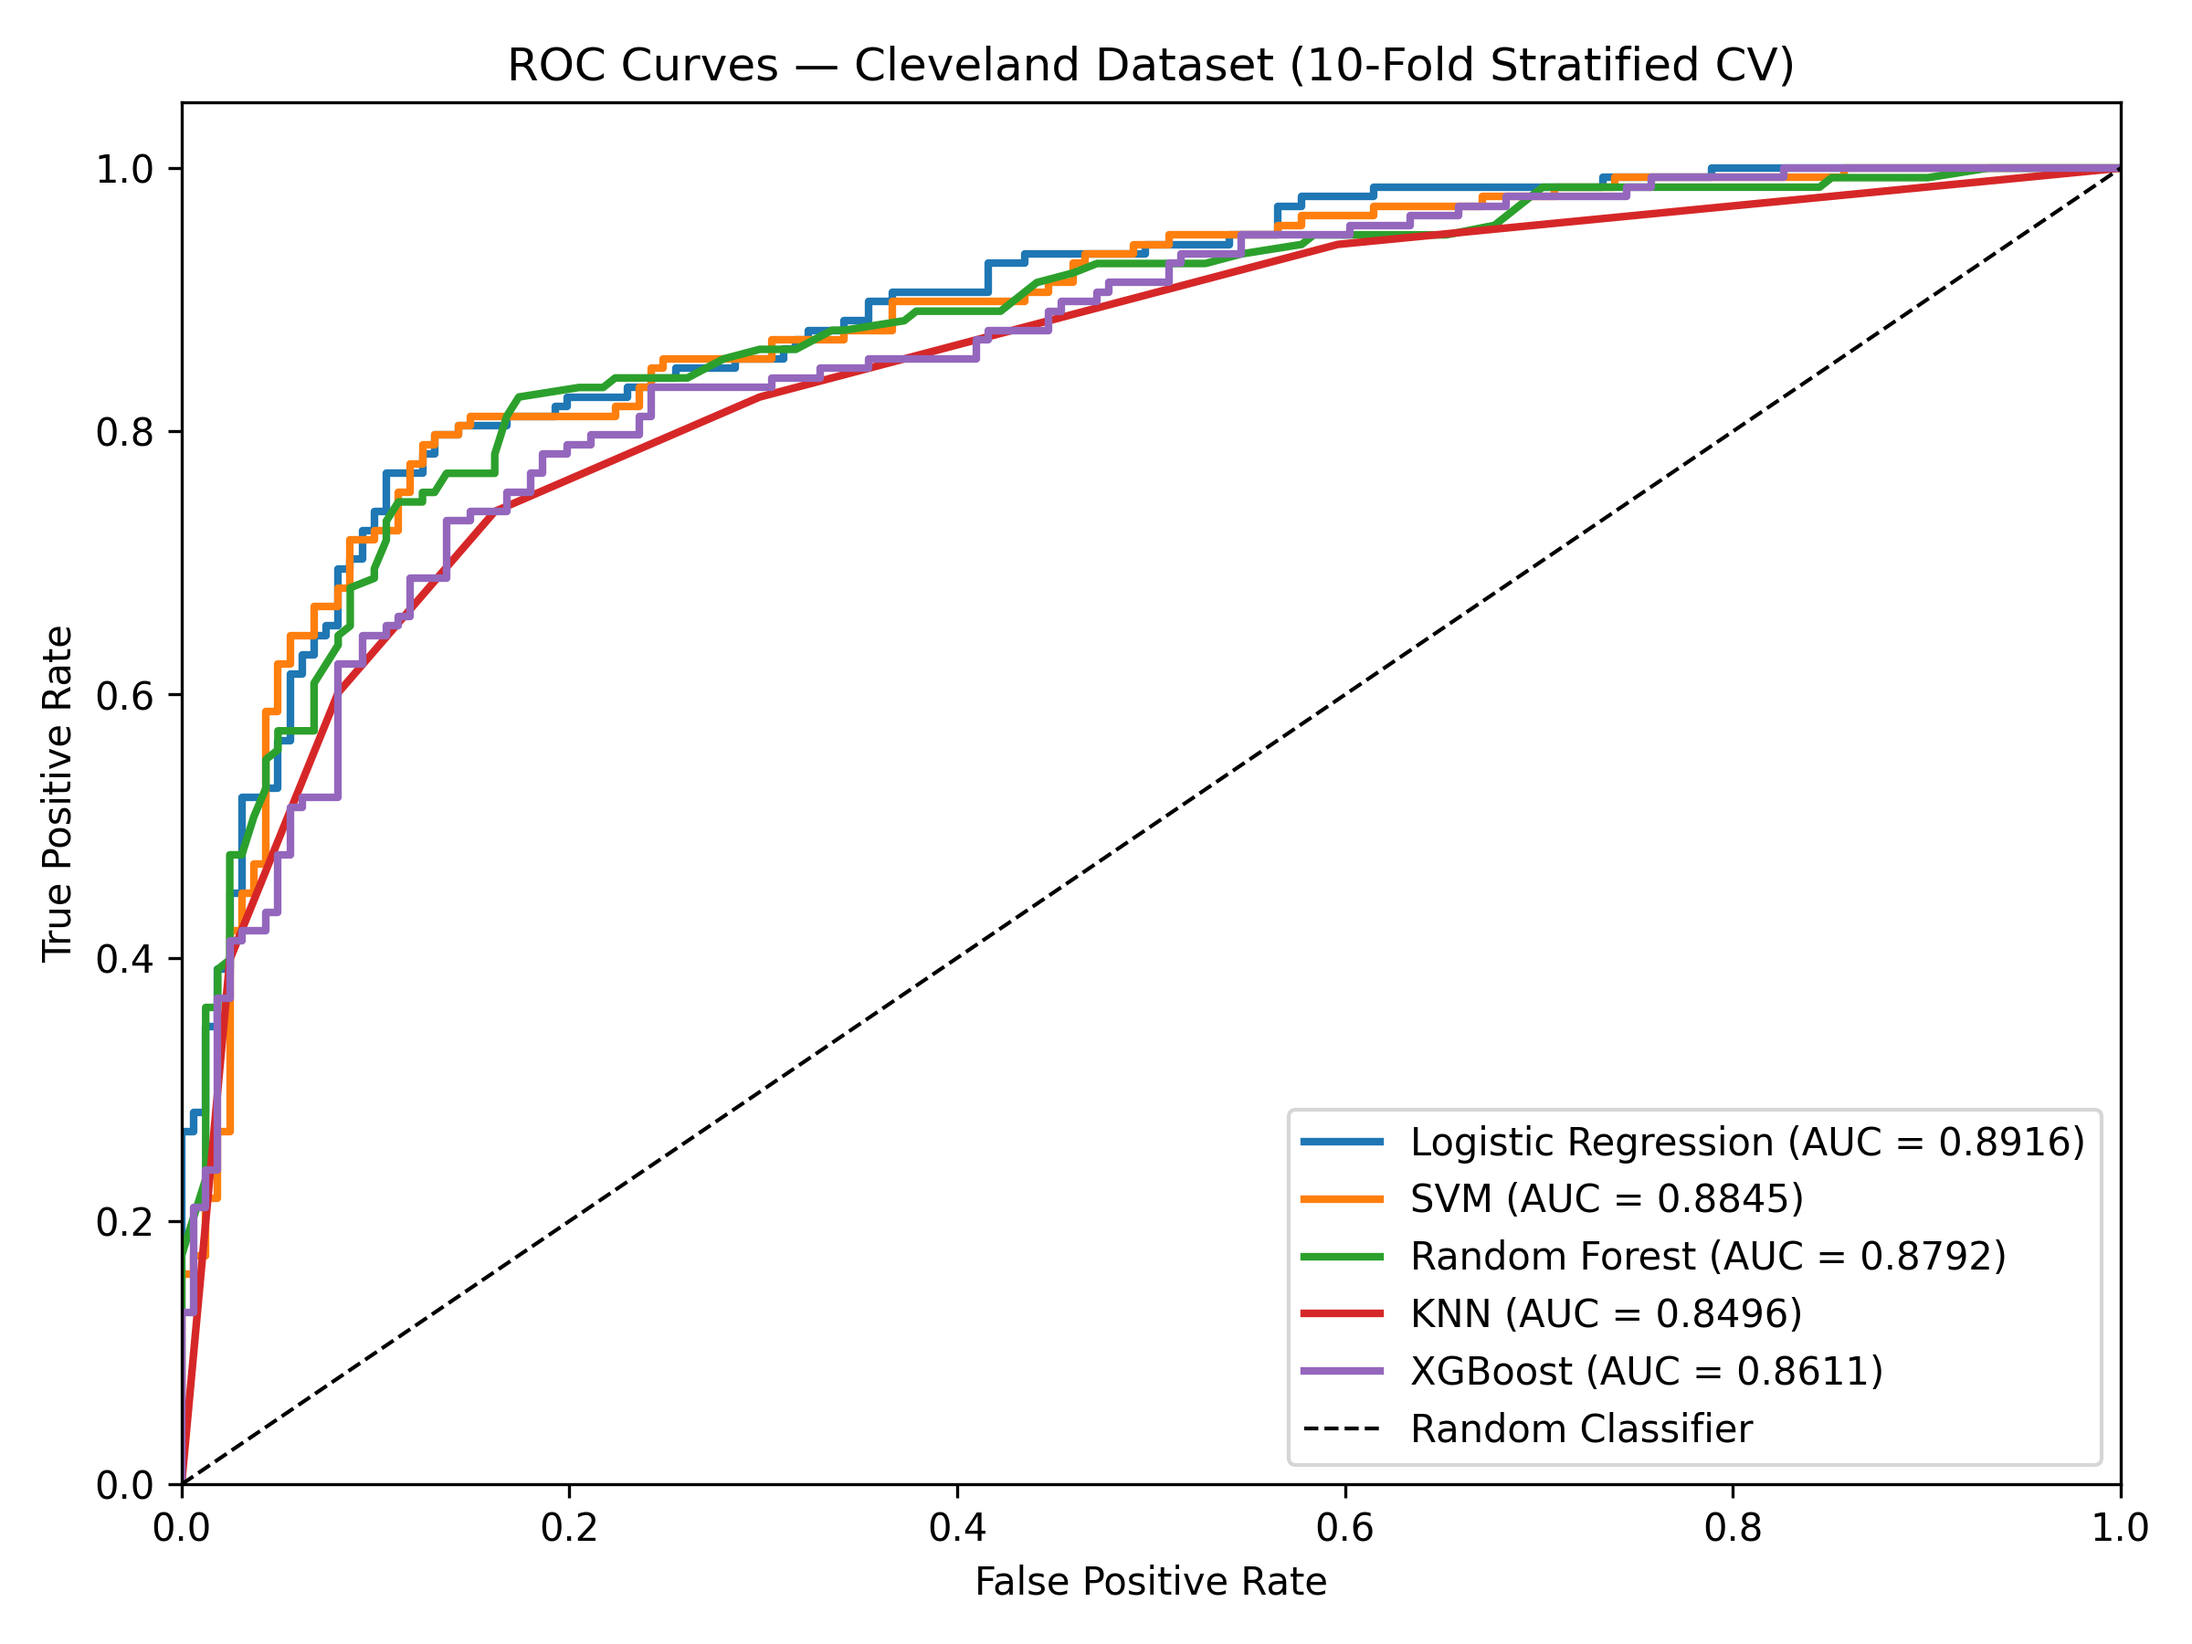
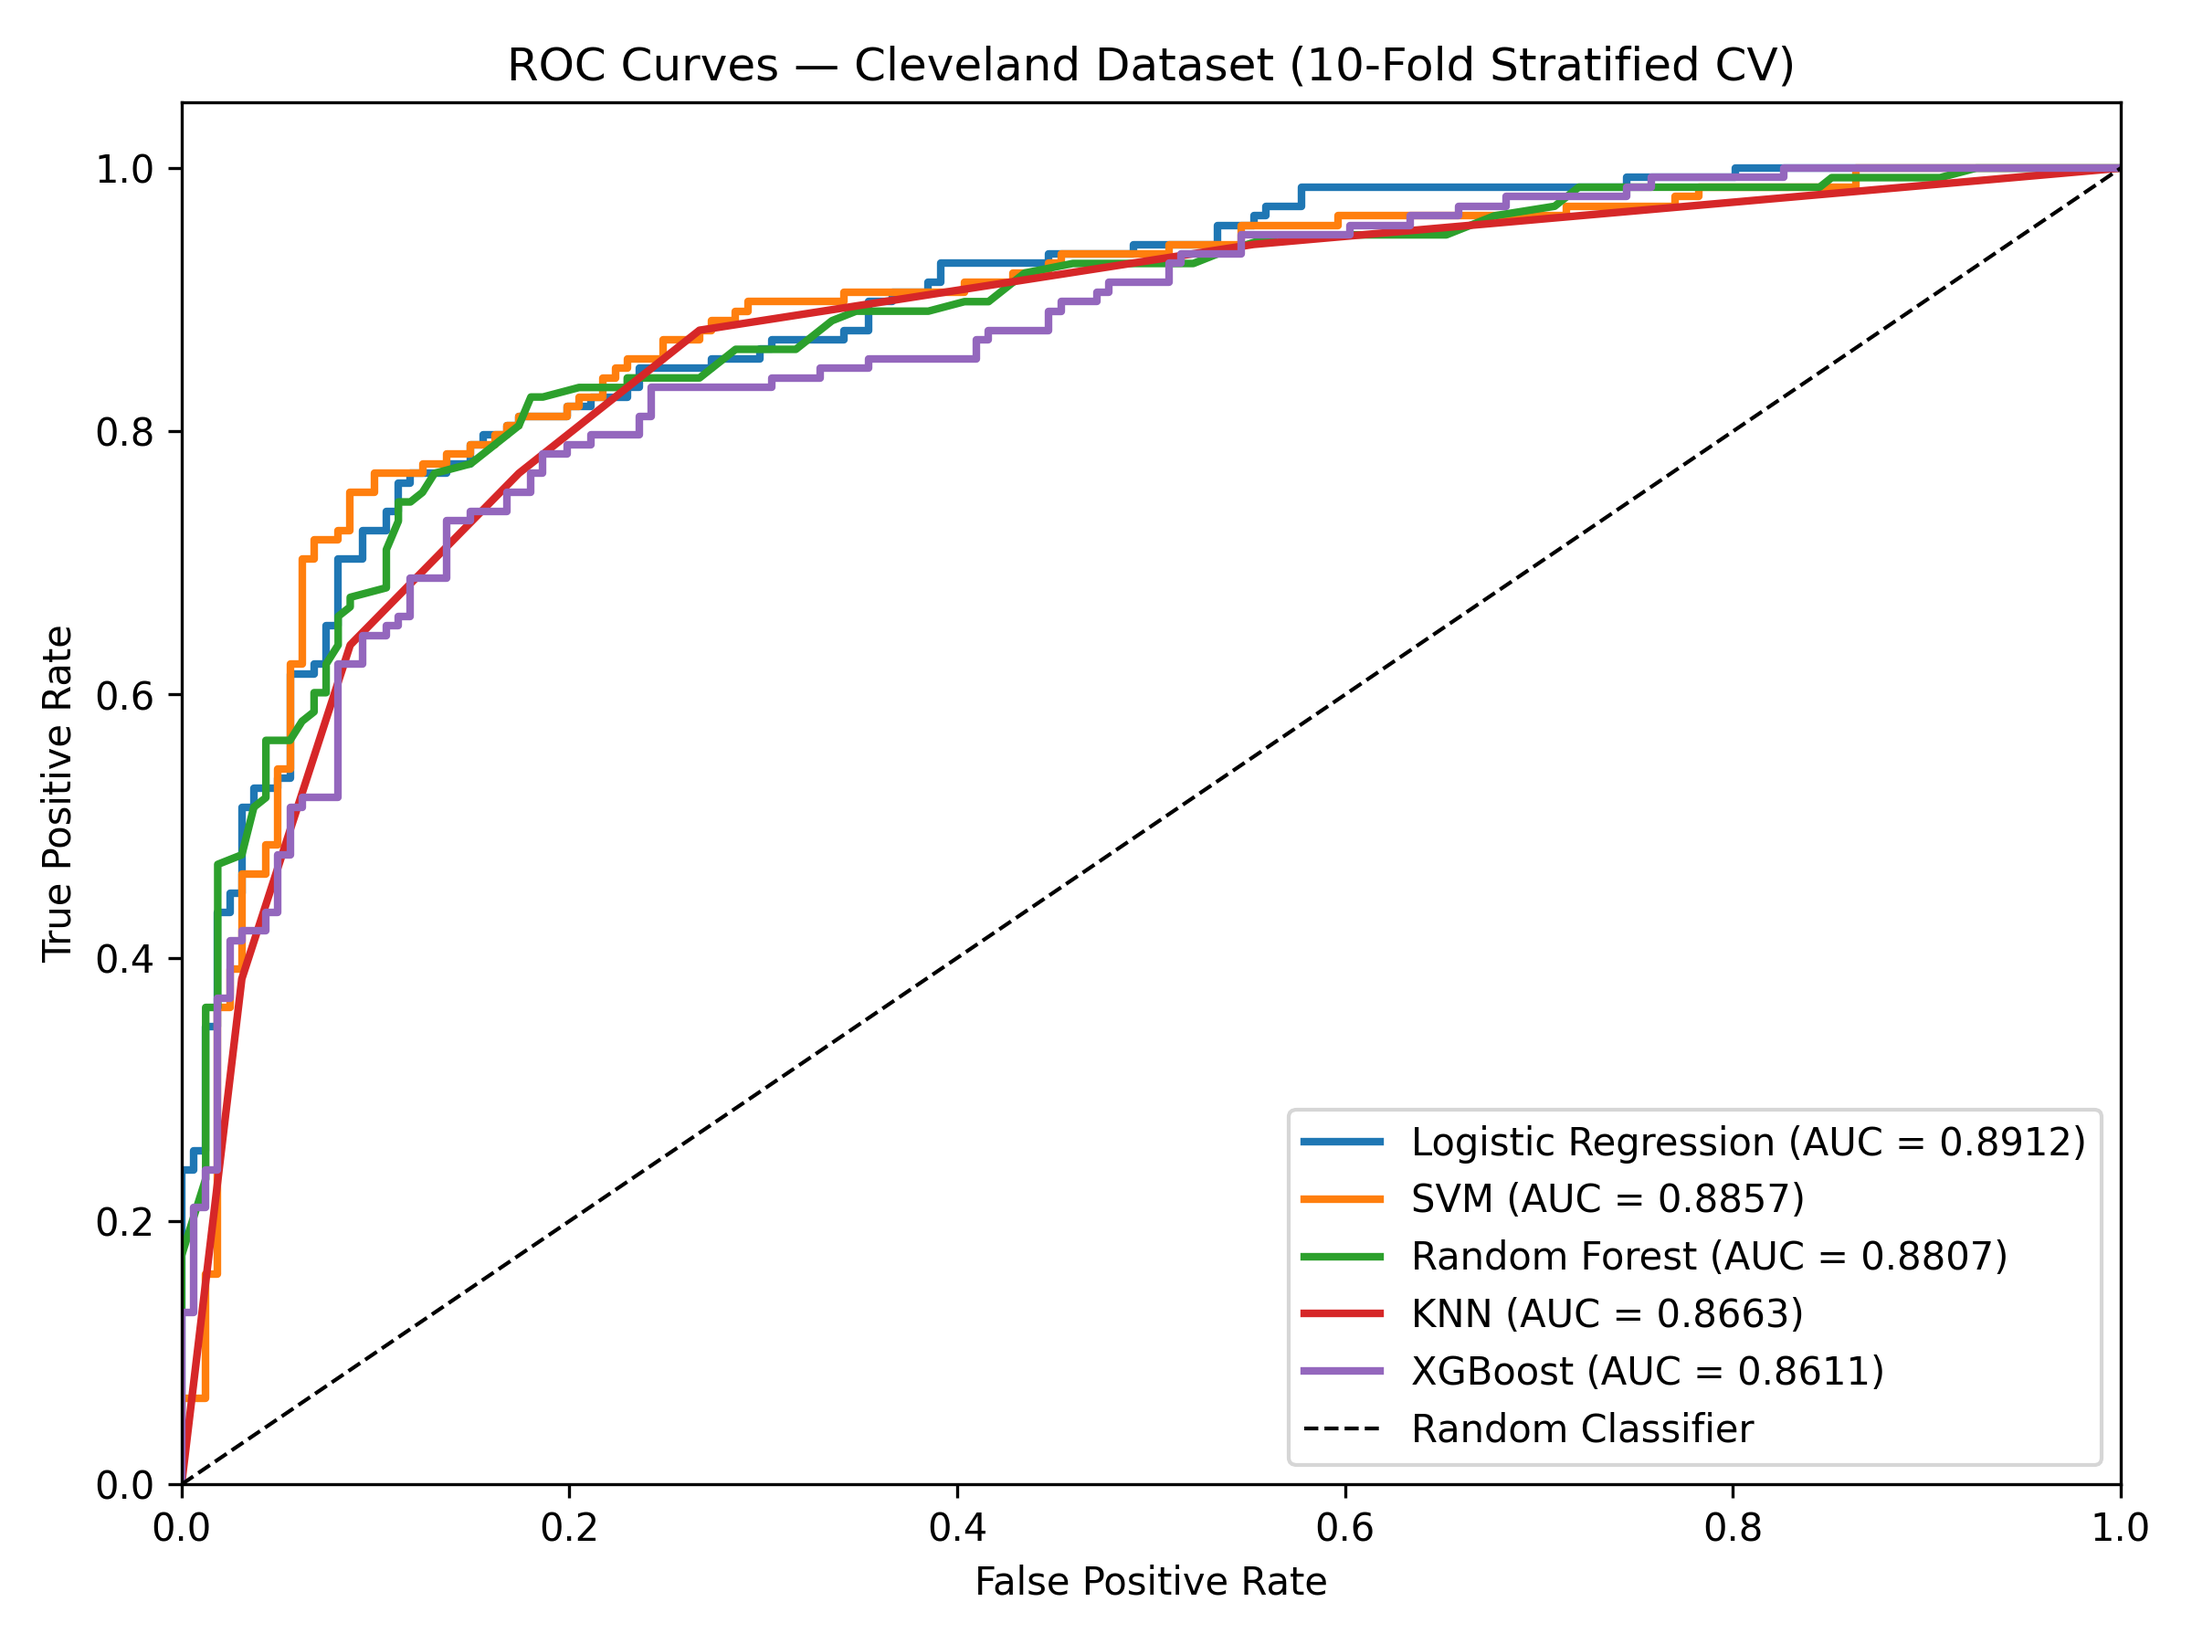
updated scaling of data for training

diff --git a/scripts/model_training.py b/scripts/model_training.py
@@ -5,6 +5,8 @@ import seaborn as sns
 import os
 
 from sklearn.model_selection import StratifiedKFold, cross_val_predict
+from sklearn.pipeline import Pipeline
+from sklearn.preprocessing import StandardScaler
 from sklearn.metrics import (
     accuracy_score, precision_score, recall_score,
     f1_score, roc_auc_score, roc_curve, confusion_matrix, ConfusionMatrixDisplay
@@ -18,7 +20,7 @@ from xgboost import XGBClassifier
 
 
 def load_and_prepare_data():
-    cleveland = pd.read_csv("../processed-data/cleveland_normalised.csv")
+    cleveland = pd.read_csv("../processed-data/cleveland_processed.csv")
     X = cleveland.drop("target", axis=1)
     y = cleveland["target"]
     return X, y
@@ -26,15 +28,30 @@ def load_and_prepare_data():
 
 def get_models():
     return {
-        "Logistic Regression": LogisticRegression(max_iter=1000, random_state=42),
-        "SVM":                 SVC(kernel="rbf", probability=True, random_state=42),
-        "Random Forest":       RandomForestClassifier(n_estimators=100, random_state=42),
-        "KNN":                 KNeighborsClassifier(n_neighbors=5),
-        "XGBoost":             XGBClassifier(
-                                   n_estimators=100,
-                                   eval_metric="logloss",
-                                   random_state=42,
-                               ),
+        "Logistic Regression": Pipeline([
+            ("scaler", StandardScaler()),
+            ("clf", LogisticRegression(max_iter=1000, random_state=42)),
+        ]),
+        "SVM": Pipeline([
+            ("scaler", StandardScaler()),
+            ("clf", SVC(kernel="rbf", probability=True, random_state=42)),
+        ]),
+        "Random Forest": Pipeline([
+            ("scaler", StandardScaler()),
+            ("clf", RandomForestClassifier(n_estimators=100, random_state=42)),
+        ]),
+        "KNN": Pipeline([
+            ("scaler", StandardScaler()),
+            ("clf", KNeighborsClassifier(n_neighbors=5)),
+        ]),
+        "XGBoost": Pipeline([
+            ("scaler", StandardScaler()),
+            ("clf", XGBClassifier(
+                n_estimators=100,
+                eval_metric="logloss",
+                random_state=42,
+            )),
+        ]),
     }
 
 
